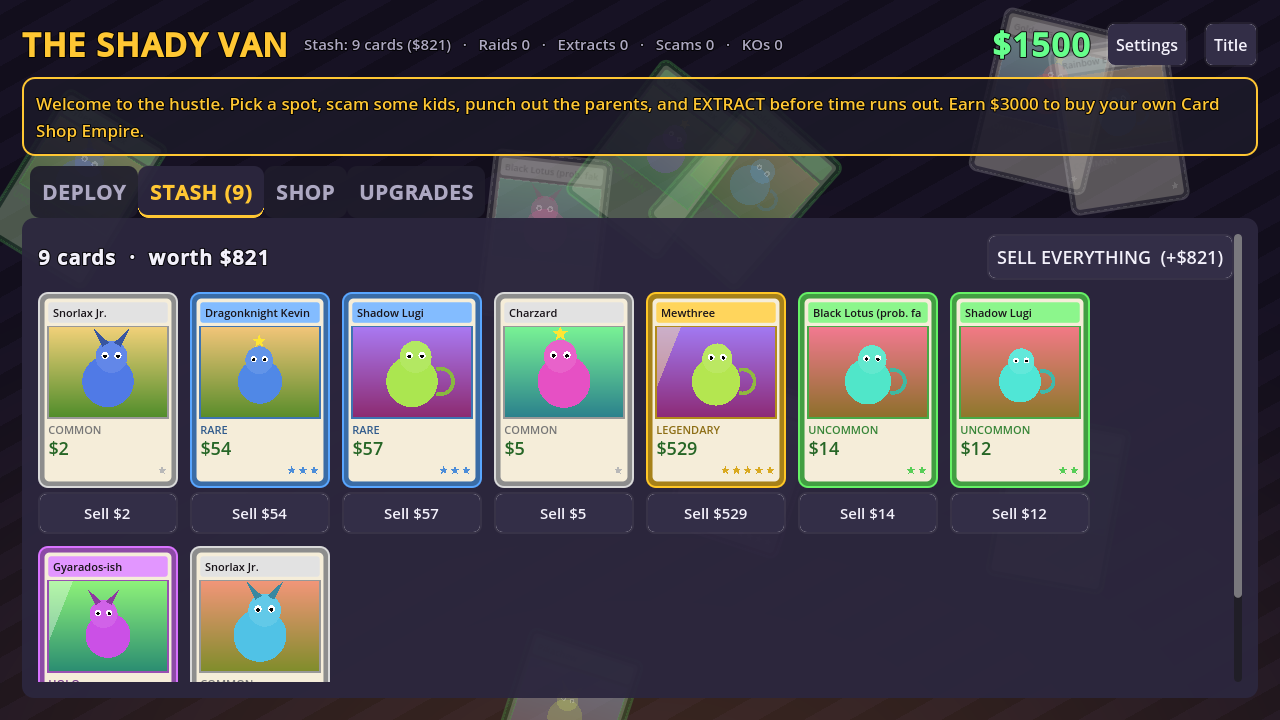
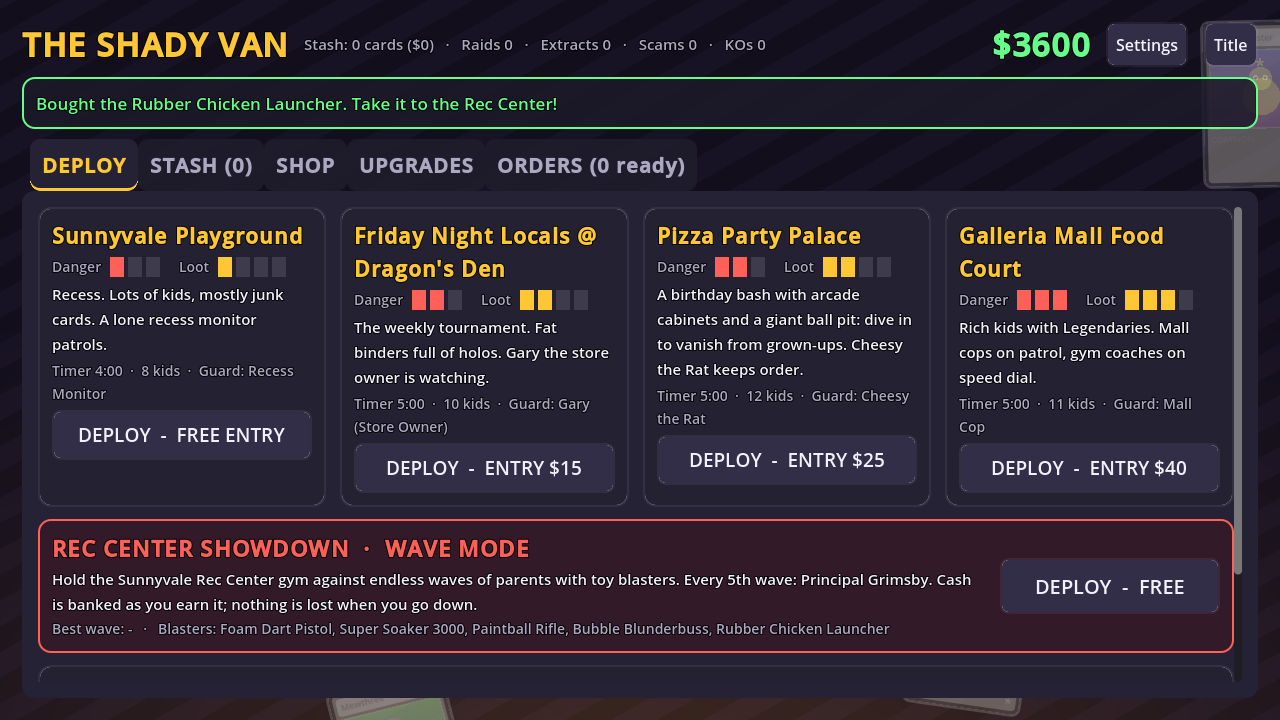
Level art pass, Wave Mode polish, README and screenshots
specs/004 (P2/P3 stories + polish):
- Raid levels dressed with the prop kit: playground chain-link fence,
  school roof/windows/doors/flagpole, bus, picnic tables, hoop, houses
  past the fence; Locals roof, lit ceiling, glass windows, curb, cars and
  minivan, bus shelter, vending; Pizza tiled ceiling with light panels,
  new arcade cabinets, stage curtains; Mall storefronts with glass and
  awnings, skylight grid, benches, plants, bins, vending
- Viewmodel blaster sizing and hand placement, calmer arena floor color,
  plain roof undersides, fainter concrete cracks
- Hideout tiles fit the 1280x720 base size
- Smoke test: per-location prop checks (>= 8 props of >= 4 kinds, >= 15
  kinds overall); 161 checks green on 3 consecutive runs
- README: Wave Mode section, blasters table, smarter AI, level detail,
  new screenshots; tasks.md marked complete with implementation notes

Claude-Session: https://claude.ai/code/session_01FynwCJVZ5ZZB3NQTqCekYc

diff --git a/specs/004-wave-mode-and-level-art/tasks.md b/specs/004-wave-mode-and-level-art/tasks.md
@@ -14,16 +14,16 @@ description: "Task list for Wave Mode, Smarter Adults and a Level Art Pass"
 
 ## Phase 1: Setup
 
-- [ ] T001 Confirm the baseline smoke test passes (repo root)
+- [X] T001 Confirm the baseline smoke test passes (repo root)
 
 ---
 
 ## Phase 2: Foundational
 
-- [ ] T002 Add `BLASTERS` and `BLASTER_ORDER` (values from data-model.md, dart cost 0 with reserve -1), `WAVE_CONFIG` and `WAVE_ENEMIES` to scripts/game_state.gd
-- [ ] T003 Add `blasters_owned` (dart always true), `blaster_id`, `best_wave`, `wave_runs` with save/load merge, `buy_blaster(id)`, `equip_blaster(id)`, `cycle_blaster(step)`, and the `reload` input (R) in scripts/game_state.gd
-- [ ] T004 Add `var mode := "raid"` to scripts/main.gd and guard every `LOCATIONS[location_id]` use (main, hud, kid spawning) so a run with `location_id == ""` works
-- [ ] T005 Add Art quality keys `ssr`, `volumetric`, `decals` and the `arena` mood (indoor, warm, low sun) in scripts/art.gd; `apply_mood` sets SSR and volumetric fog from the profile and mood
+- [X] T002 Add `BLASTERS` and `BLASTER_ORDER` (values from data-model.md, dart cost 0 with reserve -1), `WAVE_CONFIG` and `WAVE_ENEMIES` to scripts/game_state.gd
+- [X] T003 Add `blasters_owned` (dart always true), `blaster_id`, `best_wave`, `wave_runs` with save/load merge, `buy_blaster(id)`, `equip_blaster(id)`, `cycle_blaster(step)`, and the `reload` input (R) in scripts/game_state.gd
+- [X] T004 Add `var mode := "raid"` to scripts/main.gd and guard every `LOCATIONS[location_id]` use (main, hud, kid spawning) so a run with `location_id == ""` works
+- [X] T005 Add Art quality keys `ssr`, `volumetric`, `decals` and the `arena` mood (indoor, warm, low sun) in scripts/art.gd; `apply_mood` sets SSR and volumetric fog from the profile and mood
 
 **Checkpoint**: the game runs exactly as before, and the tests are green.
 
@@ -31,64 +31,64 @@ description: "Task list for Wave Mode, Smarter Adults and a Level Art Pass"
 
 ## Phase 3: User Story 2 - Toy Blasters (P1)
 
-- [ ] T006 [US2] Create scripts/gunplay.gd: per-run ammo, fire (hitscan with spread and pellets, mask 1|8, headshot ×1.5), soaker stream ticks, chicken projectile launch, reload, aim (spread ×0.35, FOV −15), switch cancels reload
-- [ ] T007 [US2] Rewrite scripts/rocket.gd as the rubber chicken: ballistic arc, sweep against mask 1|8, splash on parents only, feather burst + "BWAK!" via `main.spawn_explosion`
-- [ ] T008 [US2] Viewmodel blaster models (5, primitives) with `set_blaster`, `fire_kick`, `set_aim`, `reload_anim`, and a `muzzle` node in scripts/viewmodel.gd
-- [ ] T009 [US2] Shooter VFX in scripts/art.gd: `muzzle_flash`, `tracer` (dart/paint/bubble visuals flying to the hit point), `splat` and `stuck_dart` (ring buffers capped by `q("decals")` / 60), `water_stream`, `impact_puff`, `feathers`, `splash`
-- [ ] T010 [US2] Sounds in scripts/sfx.gd: dart, soak, paint, bubble, chicken, boom, reload, empty, horn, pickup
-- [ ] T011 [US2] Route player input in wave mode (scripts/player.gd): LMB → gunplay fire (hold for auto/stream), RMB → aim, R → reload, 1-5/wheel → blasters; no block, sand or melee in wave mode
-- [ ] T012 [US2] Parent status hooks in scripts/parent.gd: `shot(amount, dir, knock, headshot, effect)` applying mark ×1.2 and soak slow, with paint blobs and drips
+- [X] T006 [US2] Create scripts/gunplay.gd: per-run ammo, fire (hitscan with spread and pellets, mask 1|8, headshot ×1.5), soaker stream ticks, chicken projectile launch, reload, aim (spread ×0.35, FOV −15), switch cancels reload
+- [X] T007 [US2] Rewrite scripts/rocket.gd as the rubber chicken: ballistic arc, sweep against mask 1|8, splash on parents only, feather burst + "BWAK!" via `main.spawn_explosion`
+- [X] T008 [US2] Viewmodel blaster models (5, primitives) with `set_blaster`, `fire_kick`, `set_aim`, `reload_anim`, and a `muzzle` node in scripts/viewmodel.gd
+- [X] T009 [US2] Shooter VFX in scripts/art.gd: `muzzle_flash`, `tracer` (dart/paint/bubble visuals flying to the hit point), `splat` and `stuck_dart` (ring buffers capped by `q("decals")` / 60), `water_stream`, `impact_puff`, `feathers`, `splash`
+- [X] T010 [US2] Sounds in scripts/sfx.gd: dart, soak, paint, bubble, chicken, boom, reload, empty, horn, pickup
+- [X] T011 [US2] Route player input in wave mode (scripts/player.gd): LMB → gunplay fire (hold for auto/stream), RMB → aim, R → reload, 1-5/wheel → blasters; no block, sand or melee in wave mode
+- [X] T012 [US2] Parent status hooks in scripts/parent.gd: `shot(amount, dir, knock, headshot, effect)` applying mark ×1.2 and soak slow, with paint blobs and drips
 
 ---
 
 ## Phase 4: User Story 1 - Wave Mode Loop (P1) 🎯 MVP
 
-- [ ] T013 [US1] Create scripts/waves.gd: `budget(n)`, `compose(n, rng)` (eligible by first wave, boss every 5th), spawn queue with interval and live cap, door choice (far, preferably out of sight), HP scaling, intermission, clear rewards, KO tracking, pickups, run result
-- [ ] T014 [US1] Create scripts/pickup.gd (bobbing ammo box / juice box, collected within 1.5 m, expires)
-- [ ] T015 [US1] main.gd: `start_waves()` / `end_waves(reason)`, wave-mode `_process` branch, `spawn_parent_at(type, pos)`, KO hook to the director, pause menu "Quit run", `spawn_explosion`
-- [ ] T016 [US1] HUD wave mode in scripts/hud.gd: wave/remaining/intermission, ammo and reload bar, KOs and cash, banner, boss bar; hide heat/binder/timer
-- [ ] T017 [US1] Hub: Wave Mode deploy tile (best wave, owned blasters) and BLASTERS shop section in scripts/hub.gd; results report on return
+- [X] T013 [US1] Create scripts/waves.gd: `budget(n)`, `compose(n, rng)` (eligible by first wave, boss every 5th), spawn queue with interval and live cap, door choice (far, preferably out of sight), HP scaling, intermission, clear rewards, KO tracking, pickups, run result
+- [X] T014 [US1] Create scripts/pickup.gd (bobbing ammo box / juice box, collected within 1.5 m, expires)
+- [X] T015 [US1] main.gd: `start_waves()` / `end_waves(reason)`, wave-mode `_process` branch, `spawn_parent_at(type, pos)`, KO hook to the director, pause menu "Quit run", `spawn_explosion`
+- [X] T016 [US1] HUD wave mode in scripts/hud.gd: wave/remaining/intermission, ammo and reload bar, KOs and cash, banner, boss bar; hide heat/binder/timer
+- [X] T017 [US1] Hub: Wave Mode deploy tile (best wave, owned blasters) and BLASTERS shop section in scripts/hub.gd; results report on return
 
 ---
 
 ## Phase 5: User Story 3 - Smarter Adults (P1)
 
-- [ ] T018 [US3] Surround slots: `main.flank_bearing(p)` and slot assignment; CHASE paths to the slot point when over 6 m away (scripts/main.gd, scripts/parent.gd)
-- [ ] T019 [US3] Weave when aimed at (over 6 m), sidestep dodge after a shot (30%, 3 s cooldown, not the boss), stuck detection and detour (scripts/parent.gd)
-- [ ] T020 [US3] Ranged types `pitcher` and `balloon`: distance band, line-of-fire check, throw tokens in main.gd, THROW wind-up state, lead prediction; scripts/thrown.gd projectile (mask 1|2, balloon splash)
-- [ ] T021 [US3] Boss `principal`: megaphone SHOUT state (1.0 s telegraph, cone), summons, stagger resistance, rig tie and megaphone props (scripts/parent.gd)
-- [ ] T022 [US3] Wave mode awareness: adults always track the player in wave mode
+- [X] T018 [US3] Surround slots: `main.flank_bearing(p)` and slot assignment; CHASE paths to the slot point when over 6 m away (scripts/main.gd, scripts/parent.gd)
+- [X] T019 [US3] Weave when aimed at (over 6 m), sidestep dodge after a shot (30%, 3 s cooldown, not the boss), stuck detection and detour (scripts/parent.gd)
+- [X] T020 [US3] Ranged types `pitcher` and `balloon`: distance band, line-of-fire check, throw tokens in main.gd, THROW wind-up state, lead prediction; scripts/thrown.gd projectile (mask 1|2, balloon splash)
+- [X] T021 [US3] Boss `principal`: megaphone SHOUT state (1.0 s telegraph, cone), summons, stagger resistance, rig tie and megaphone props (scripts/parent.gd)
+- [X] T022 [US3] Wave mode awareness: adults always track the player in wave mode
 
 ---
 
 ## Phase 6: User Story 4 - Showcase Arena (P2)
 
-- [ ] T023 [US4] Create scripts/props.gd prop kit (≥ 20 kinds; group `props`, meta `prop_kind`)
-- [ ] T024 [US4] Create scripts/arena.gd: gym shell with ceiling, glossy court with lines, hoops, balcony track with ramps and railings, bleachers with net and cheering spectator rigs, stage with curtains, cover props, doors with signs, hanging lights (omni), window spot lights (High), banners, scoreboard; dispatch "arena" in scripts/levels.gd
+- [X] T023 [US4] Create scripts/props.gd prop kit (≥ 20 kinds; group `props`, meta `prop_kind`)
+- [X] T024 [US4] Create scripts/arena.gd: gym shell with ceiling, glossy court with lines, hoops, balcony track with ramps and railings, bleachers with net and cheering spectator rigs, stage with curtains, cover props, doors with signs, hanging lights (omni), window spot lights (High), banners, scoreboard; dispatch "arena" in scripts/levels.gd
 
 ---
 
 ## Phase 7: User Story 5 - Raid Level Prop Pass (P2)
 
-- [ ] T025 [US5] Playground: chain-link fence, school roof/trim/windows/doors/steps, flagpole, bike rack, picnic tables, trash cans, hoop + court lines, detailed bus (scripts/levels.gd)
-- [ ] T026 [US5] Locals: store roof + AC units, storefront glass, interior ceiling lights, detailed cars, sidewalk/curb, bus shelter, vending machine, trash cans (scripts/levels.gd)
-- [ ] T027 [US5] Pizza: ceiling with light panels, better arcade cabinets, stage curtains, trash cans, plants (scripts/levels.gd)
-- [ ] T028 [US5] Mall: storefront glass and awnings, skylight frame, benches, plants, trash cans, vending machines (scripts/levels.gd)
+- [X] T025 [US5] Playground: chain-link fence, school roof/trim/windows/doors/steps, flagpole, bike rack, picnic tables, trash cans, hoop + court lines, detailed bus (scripts/levels.gd)
+- [X] T026 [US5] Locals: store roof + AC units, storefront glass, interior ceiling lights, detailed cars, sidewalk/curb, bus shelter, vending machine, trash cans (scripts/levels.gd)
+- [X] T027 [US5] Pizza: ceiling with light panels, better arcade cabinets, stage curtains, trash cans, plants (scripts/levels.gd)
+- [X] T028 [US5] Mall: storefront glass and awnings, skylight frame, benches, plants, trash cans, vending machines (scripts/levels.gd)
 
 ---
 
 ## Phase 8: User Story 6 - Polish (P3)
 
-- [ ] T029 [US6] Glossy floors (arena court, mall tiles) and SSR/volumetric on High only
+- [X] T029 [US6] Glossy floors (arena court, mall tiles) and SSR/volumetric on High only
 
 ---
 
 ## Phase 9: Tests and Polish
 
-- [ ] T030 Smoke checks in tests/smoke_test.gd for every quickstart item (SC-001 … SC-008)
-- [ ] T031 Run the smoke test 3+ times, all green
-- [ ] T032 Screenshot review (arena High/Low, each blaster, ranged wind-up, boss telegraph, each raid location); fix issues
-- [ ] T033 README: Wave Mode section, controls, blasters table, screenshots; pause help text
+- [X] T030 Smoke checks in tests/smoke_test.gd for every quickstart item (SC-001 … SC-008)
+- [X] T031 Run the smoke test 3+ times, all green
+- [X] T032 Screenshot review (arena High/Low, each blaster, ranged wind-up, boss telegraph, each raid location); fix issues
+- [X] T033 README: Wave Mode section, controls, blasters table, screenshots; pause help text
 
 ## Dependencies & Execution Order
 
@@ -106,3 +106,25 @@ T023 scripts/props.gd   ‖   T006 scripts/gunplay.gd   ‖   T010 scripts/sfx.g
 
 - **MVP**: Foundational + blasters + the wave loop in the arena shell.
 - Then the AI upgrade, the full arena, the raid prop pass, the High polish, tests and screenshots.
+
+## Implementation Notes
+
+- **Surround (R3) needed three iterations.** Evenly spaced slots made far-slot chasers cut
+  straight through the player, and per-frame re-sorting collapsed the slots into pairs. The final
+  design:
+  - sticky slots, picked within 135° of the chaser's own bearing to maximize spacing;
+  - an orbit step (bearing step ≤ 0.45 rad, target at `dist / cos(step)`) so heading stays near
+    tangent until the chaser is close to its slot;
+  - flanking only beyond 4.5 m, and for at most 7 s before charging.
+
+  Measured approach spreads are 235-249° over three runs.
+- **Stuck detection** is window-based: under 0.6 m of displacement per second while wanting to
+  move. A per-frame speed test missed adults jittering in place against an unreachable target.
+- **Spectators** are rig-only nodes with no colliders and no "kids" group, so nothing can hit them.
+- **Raid props:** the playground's concrete wall became a chain-link fence (same footprint and
+  collision). Pizza and Locals gained interior ceilings that don't cast sun shadows. The movement
+  test lane in the Locals lot (z ≈ 18.5) is kept clear of solid props.
+- **Hideout layout:** at the 1280×720 base size, location tiles overflowed. They now shrink to
+  270 px and their info line wraps.
+- **AI-test safety:** tests that leave adults attacking a stationary test player keep the
+  player's health topped up, so the run isn't ended by a knockout mid-check.

diff --git a/README.md b/README.md
@@ -2,7 +2,15 @@
 
 A goofy low-poly, first-person extraction game made in Godot 4. You're a shady card dealer: deploy to a local hangout, "trade" kids out of their best trading cards, fight off the angry parents with fists and swords, and **extract** before time runs out. Then sell your haul from the Shady Van and gear up for the next run.
 
+Or skip the hustle and hold the **Rec Center** against endless waves of parents in **Wave Mode**, armed with cartoon toy blasters.
+
 ![An angry dad spots you](screenshot.png)
+
+| Wave Mode: the Rec Center gym | Paintball vs. Angry Dads |
+| --- | --- |
+| ![The Rec Center arena](screenshot_arena.png) | ![Paintball Rifle in action](screenshot_waves.png) |
+| **Principal Grimsby (boss)** | **Wave 2: the throwers arrive** |
+| ![Principal Grimsby winds up his megaphone](screenshot_boss.png) | ![Little League Coach and Water Balloon Mom](screenshot_wave_banner.png) |
 
 | Sunnyvale Playground | Friday Night Locals |
 | --- | --- |
@@ -95,6 +103,43 @@ and a chaperone mom hovering nearby. Every raid also rolls one modifier, shown u
 Patrolling guards and chaperones leave you alone until you stir things up (heat), or until they see
 you scam someone.
 
+## Wave Mode: Rec Center Showdown
+
+Pick **Rec Center Showdown** on the hideout's DEPLOY tab (free). You defend the Sunnyvale Rec
+Center gym against waves of adults pouring in through the doors. Clear a wave to get a cash bonus,
+some health and an ammo restock, then the next, bigger wave arrives. Every 5th wave brings the boss,
+**Principal Grimsby**: a slow heavy swing, a telegraphed megaphone blast ("DETENTION!!") and
+hall-monitor backup. The run ends when you're knocked out or quit, and your best wave is saved.
+Cash is banked as you earn it, so you never lose anything you owned.
+
+| Input (Wave Mode) | Action |
+| --- | --- |
+| Left click | Fire (hold for the Paintball Rifle and the Soaker) |
+| Right click | Aim: tighter spread, slight zoom |
+| R | Reload |
+| 1-5 / mouse wheel | Switch blaster |
+
+Movement is the same as in raids, so bunny hopping and sliding work there too. Headshots **BONK**
+for +50% damage. Knocked-out adults sometimes drop ammo boxes and juice boxes.
+
+| Blaster | Price | Role |
+| --- | --- | --- |
+| Foam Dart Pistol | free | Precise, never runs out of reserve ammo. Darts stick in the walls |
+| Super Soaker 3000 | $150 | Short-range stream; soaked adults slow down |
+| Paintball Rifle | $300 | Full-auto; painted adults take +20% damage |
+| Bubble Blunderbuss | $350 | Close-range burst with huge knockback |
+| Rubber Chicken Launcher | $600 | Arcing splash shot. BWAK! |
+
+The adults fight smarter here (and a bit in raids too):
+
+- they spread out and **surround** you instead of forming a line;
+- they **weave** when you aim at them and sometimes **sidestep** after being hit;
+- they notice when they're **stuck** and walk around the obstacle.
+
+New ranged adults show up from wave 2: the **Little League Coach** (fastballs) and the **Water
+Balloon Mom** (lobbed balloons that splash). Both wind up visibly and aim where you're *going*, so
+change direction to dodge. Kids only watch from the bleachers: nothing can hit them.
+
 **Collector Orders.** The hideout's ORDERS tab has three orders (e.g. "Deliver 2 Holo+ cards:
 $480"). Filling one uses the cheapest qualifying stash cards and pays at least 1.5× their sell
 value. New orders roll after every raid.
@@ -115,7 +160,8 @@ Everything is still generated in code, with no imported assets:
 - **Faces with expressions.** Characters have eyes with pupils, noses, mouths and cheeks. Adults scowl when they spot you, and scammed kids look sad and cry real tears. Kids get varied hairstyles (bowl, spiky, bun, ponytail) or caps.
 - **Living levels.** Wind-swaying grass, round trees and bushes, drifting clouds, lamp posts, posters, balloons and streamers.
 - **Effects.** Hit sparks, dizzy stars over stunned and KO'd adults, gold sparkles around the whale, dust motes indoors, and pulsing extract beams.
-- **Graphics quality** (Settings): **High** or **Low (faster)**. Low turns off outlines, shadows and ambient occlusion, cuts grass to 20% and particles to 40%. It applies from the next raid and is saved.
+- **Detailed levels** built from a prop kit of 26 kinds: chain-link fences, a school with a roof, windows, doors and a flagpole, picnic tables, cars and a minivan, a school bus, a bus shelter, vending machines, arcade cabinets, storefronts with glass and awnings, a mall skylight, ceiling lights, gym mats, bleachers and more.
+- **Graphics quality** (Settings): **High** or **Low (faster)**. Low turns off outlines, shadows, ambient occlusion, floor reflections and light shafts, cuts grass to 20% and particles to 40%, and keeps fewer paint splats. It applies from the next raid and is saved.
 
 ## The AI
 
@@ -162,6 +208,8 @@ There are also some optional skills: `/speckit-clarify`, `/speckit-analyze`, `/s
 - `scripts/main.gd`: hideout and raid lifecycle, spawning, scams and witnesses, AI coordination (attack tokens, radio), extraction.
 - `scripts/levels.gd`: level geometry plus a navmesh baked at runtime; spawn, extract, patrol and hangout points.
 - `scripts/art.gd`: the art toolkit: quality profiles, toon materials, outlines, procedural textures, lighting moods, grass/trees/clouds and particle effects.
+- `scripts/props.gd`: the prop kit used by every level. `scripts/arena.gd`: the Rec Center gym (Wave Mode).
+- `scripts/waves.gd`: the Wave Mode director. `scripts/gunplay.gd`: blasters (ammo, firing, reload, aim). `scripts/rocket.gd`: the rubber chicken. `scripts/thrown.gd`: fastballs and water balloons. `scripts/pickup.gd`: ammo and juice boxes. `scripts/spectator.gd`: kids in the bleachers.
 - `scripts/rig.gd`: jointed humanoid with procedural walk/run cycles and blended action poses.
 - `scripts/player.gd`: first-person controller with Quake-style movement (air strafe, bhop, slide), combos, heavies, block/parry, pocket sand and camera feel.
 - `scripts/viewmodel.gd`: first-person arms, fists and swords, attack animations, sway and sword trails.
